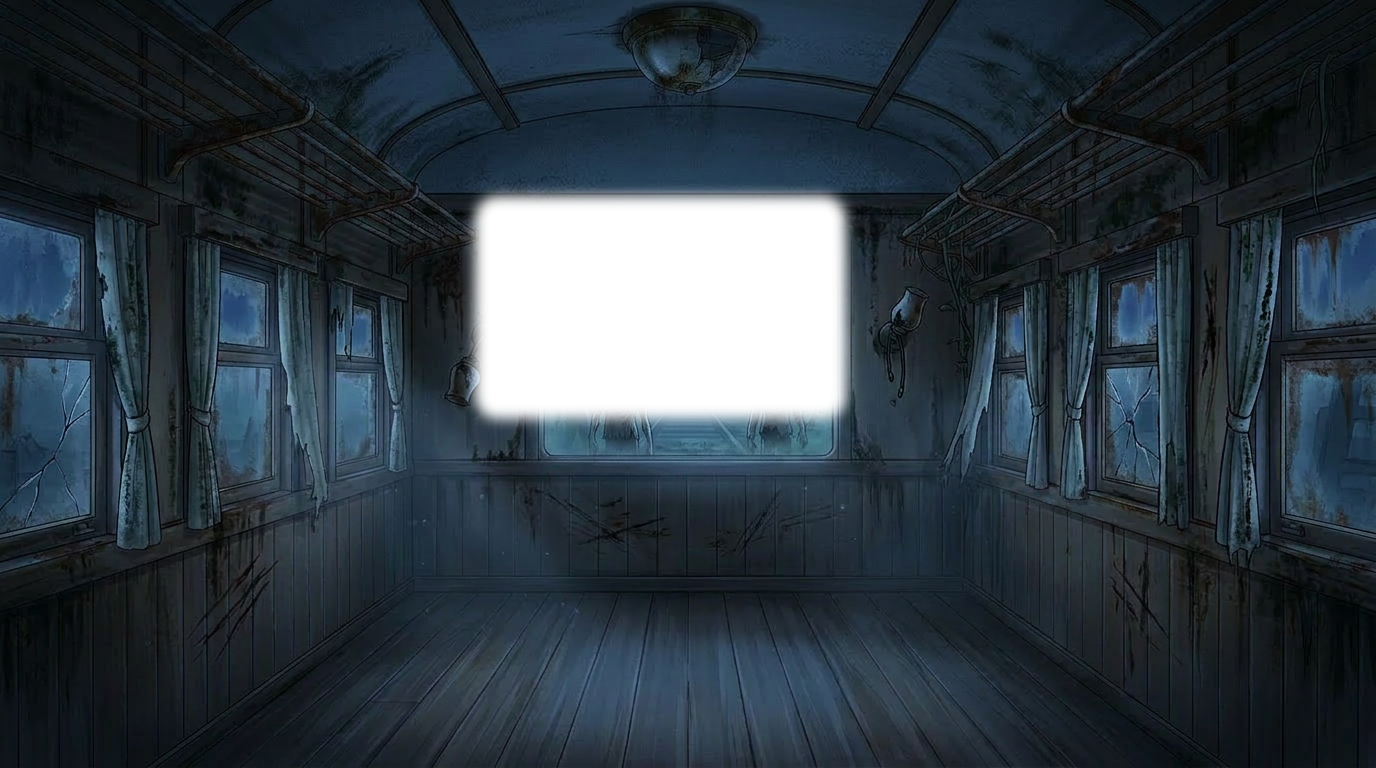
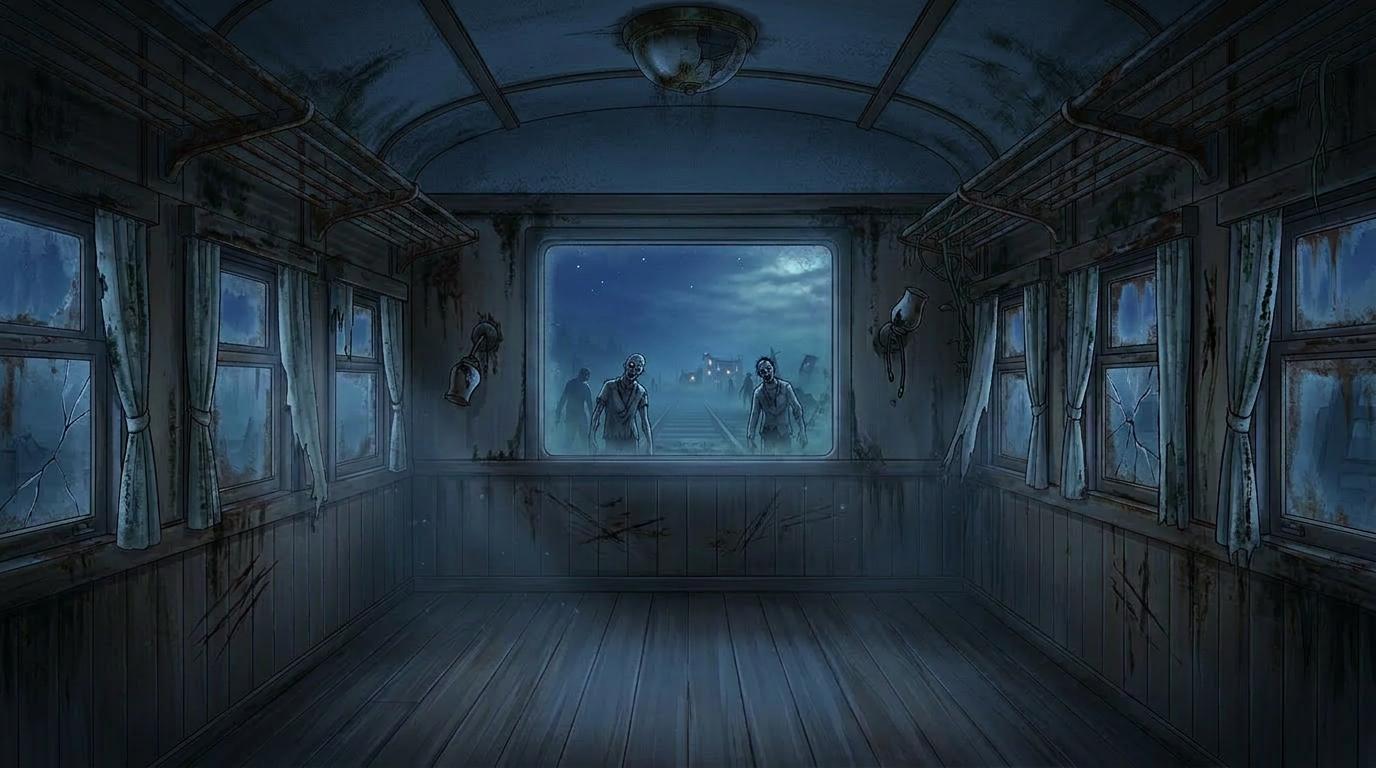
Stop cutting the wagon — overlay the landscape on top of the window instead
The window cut approach kept fighting precision: the rectangle never
matched the actual window glass shape, so the landscape bled onto the
wagon's frame or didn't fully cover the inner area.

New approach is the simpler "place a screen inside the window" idea:

- Wagons restored to their original integrated state (uncut, opaque).
  The painted-in zombies/fog are still there, just covered.
- ScrollingLandscape is rendered as a Positioned widget at the
  windowArea rectangle, sitting ON TOP of the wagon background. The
  recede animation is clipped to that rect by a ClipRect.
- Wagon frame stays untouched: no bleed, no half-transparent halo
  edges. Adjusting fit is now a one-line scene.json tweak — no PIL
  script to re-run, no asset re-export.

If the rectangle is slightly off:
- Slightly smaller than the glass: a thin strip of the wagon's painted
  window content is visible at the edges (atmospheric, mostly invisible).
- Slightly larger: the landscape sits on the wagon's frame — easy to
  spot, easy to correct in scene.json.

Bumps version to 0.6.1+1.

https://claude.ai/code/session_01FseUT8378K2P5R6kDstYKL

Changed region(s): [[0.3125, 0.2188, 0.625, 0.5625]]

diff --git a/lib/widgets/wagon_view.dart b/lib/widgets/wagon_view.dart
@@ -39,21 +39,9 @@ class WagonView extends StatelessWidget {
                     child: Stack(
                       clipBehavior: Clip.hardEdge,
                       children: [
-                        // 1. Scrolling landscape (behind everything, only
-                        //    visible through the wagon's cut-out window).
-                        if (config.landscapeFor(state.time) != null)
-                          Positioned.fill(
-                            child: AnimatedSwitcher(
-                              duration: const Duration(milliseconds: 600),
-                              child: ScrollingLandscape(
-                                key: ValueKey('land_${state.time}'),
-                                assetPath: config.landscapeFor(state.time)!,
-                                enabled: state.isParallax,
-                              ),
-                            ),
-                          ),
-                        // 2. Wagon foreground (with transparent window so
-                        //    the landscape shows through).
+                        // 1. Wagon background — kept intact (no cut). The
+                        //    original window content is hidden by the
+                        //    landscape overlay below at the windowArea.
                         Positioned.fill(
                           child: AnimatedSwitcher(
                             duration: const Duration(milliseconds: 600),
@@ -64,6 +52,14 @@ class WagonView extends StatelessWidget {
                             ),
                           ),
                         ),
+                        // 2. Scrolling landscape, positioned precisely
+                        //    inside the wagon's window rectangle. Sitting
+                        //    on top of the wagon means we never bleed onto
+                        //    the wagon's frame — adjusting fit is just a
+                        //    matter of tuning windowArea in scene.json,
+                        //    no cut script to re-run.
+                        if (config.landscapeFor(state.time) != null)
+                          _landscapeInWindow(state, w, h),
                         for (final object in config.objects)
                           if (state.isVisible(object.id))
                             _positionedObject(object, w, h),
@@ -77,6 +73,26 @@ class WagonView extends StatelessWidget {
               ),
             );
           },
+        ),
+      ),
+    );
+  }
+
+  Widget _landscapeInWindow(SceneState state, double w, double h) {
+    final rect = config.windowArea;
+    return Positioned(
+      left: rect.left * w,
+      top: rect.top * h,
+      width: rect.width * w,
+      height: rect.height * h,
+      child: ClipRect(
+        child: AnimatedSwitcher(
+          duration: const Duration(milliseconds: 600),
+          child: ScrollingLandscape(
+            key: ValueKey('land_${state.time}'),
+            assetPath: config.landscapeFor(state.time)!,
+            enabled: state.isParallax,
+          ),
         ),
       ),
     );